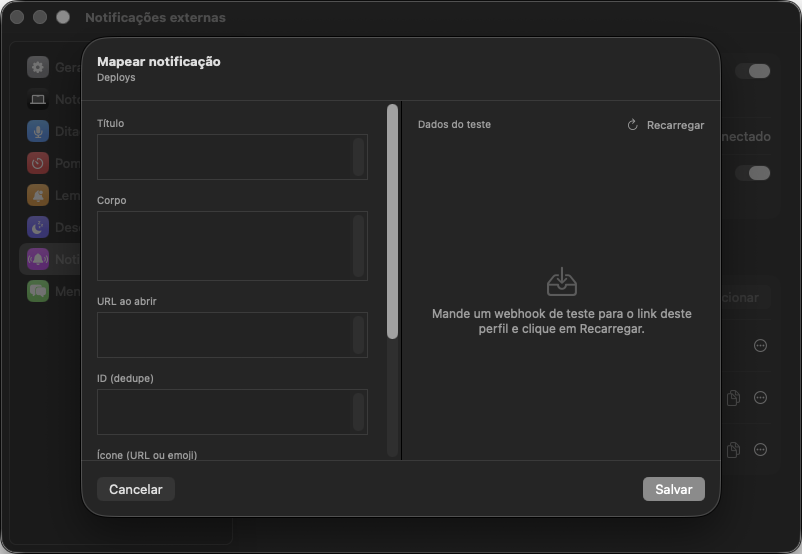
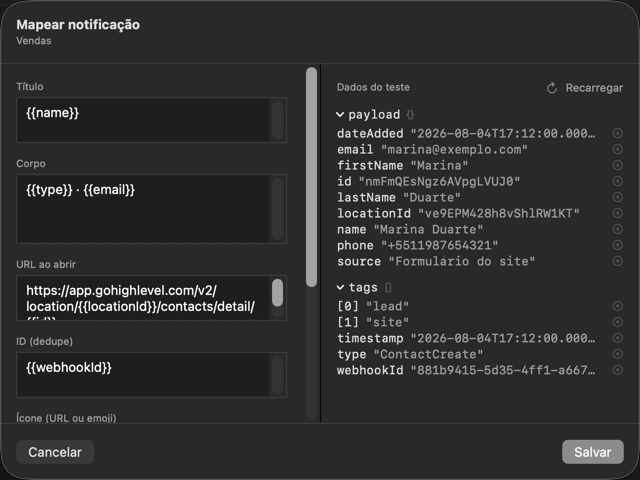
docs(webhooks): reescreve o doc pelo assistente, com presets e filtros
Fecha o ticket 021 (Fase 5). O doc de notificações externas passa a começar
pelo assistente como porta única — os cinco passos e o escape "Outro serviço
(sem preset)" — e ganha as seções Presets e Filtros no template. As imagens do
painel e do editor foram recapturadas e a do passo Serviço criada, com o fluxo
exercitado de ponta a ponta no app rodando (perfil novo, preset do GHL, POST
real, mapa salvo e card no notch).

Claude-Session: https://claude.ai/code/session_01RgiJzXMjPF5Q2VGHiHKQDy

diff --git a/docs/webhooks.md b/docs/webhooks.md
@@ -4,10 +4,6 @@
 
 *Ajustes → Notificações externas — lista de perfis.*
 
-![Editor de mapeamento de um perfil](images/mapping-editor.png)
-
-*Mapear um perfil — como o JSON recebido vira o card.*
-
 ## O que faz
 
 Cada "perfil" webhook tem um link próprio (`push.appzoi.com.br/w/<token>`):
@@ -19,11 +15,77 @@ com o relay usa um WebSocket sempre ativo, com reconexão automática.
 
 ## Como usar
 
-- Ligar/criar perfis: Ajustes → Notificações externas.
-- Copiar o link do perfil e configurar o serviço externo pra fazer POST nele.
-- "Mapear" um perfil abre o editor visual pra ligar campos do JSON recebido
-  (título, corpo, ícone, som) às partes do card.
-- Rotacionar ou excluir um perfil invalida o link antigo.
+Ligue **Receber notificações externas** e clique em **Adicionar perfil**. O
+assistente é a porta única — cinco passos, na ordem em que a configuração
+realmente acontece:
+
+1. **Nome** — como você chama esse perfil. Um por serviço costuma bastar.
+2. **Serviço** — de onde vêm as notificações. Escolher um preset traz a
+   instrução certa e semeia o mapa. Quem não está na lista escolhe
+   **Outro serviço (sem preset)** e monta o mapa depois do primeiro envio.
+3. **Link** — copie o link do perfil e cole no serviço externo.
+4. **Primeiro envio** — o assistente fica esperando o primeiro POST chegar
+   (dá pra fechar: o perfil continua esperando e o painel retoma daqui). Sem
+   esperar, **Colar JSON de exemplo** monta o mapa a partir de um payload que
+   você já tenha em mãos.
+5. **Mapa** — o editor, com a árvore do que chegou de um lado e os campos do
+   card do outro.
+
+![Passo Serviço do assistente](images/assistente-servico.png)
+
+*Passo 2 — o preset define instruções e sugestão de mapa.*
+
+Depois, na lista de perfis: **Mapear campos…** reabre o editor,
+**Gerar link novo…** invalida o link antigo e **Apagar perfil** remove tudo.
+
+### O editor de mapa
+
+![Editor de mapeamento de um perfil](images/mapping-editor.png)
+
+*Mapear um perfil — como o JSON recebido vira o card.*
+
+Clicar num valor da árvore insere o `{{caminho}}` dele no campo em foco. O
+que já chegou fica em **Dados do teste** (**Recarregar** busca o mais recente).
+Campos vazios ganham **sugestões automáticas** — do preset quando ele casa com
+o payload, senão por nome de chave — num banner que some ao primeiro toque.
+Campo já preenchido nunca é sobrescrito, e o ícone nunca é chutado.
+
+## Presets
+
+Um preset é a receita de um serviço conhecido: a instrução de onde colar o
+link, a ressalva do que costuma dar errado, um JSON de exemplo e a sugestão de
+mapa. Hoje vêm quatro no app:
+
+| Serviço | Caminho |
+|---|---|
+| GoHighLevel | App do Marketplace |
+| GoHighLevel | Ação Webhook num workflow |
+| ClickUp | Webhook de API |
+| ClickUp | Automação "Call webhook" |
+
+Um mesmo serviço aparece mais de uma vez porque o **caminho** muda o payload —
+o webhook de um workflow do GHL não tem o mesmo corpo do app do Marketplace. A
+ressalva de cada preset diz o que esperar (no GHL, por exemplo, quase todo
+campo é opcional e o corpo muda por evento).
+
+O preset é ponto de partida, não vínculo: o mapa sugerido é editável e
+**reaplicar um preset é manual** — trocar o serviço no assistente não reescreve
+um mapa que você já salvou.
+
+## Filtros no template
+
+Um `{{caminho}}` aceita um filtro: `{{caminho | filtro}}`. A lista é fechada,
+um filtro por token, sem argumentos e sem encadeamento. Filtro desconhecido ou
+inaplicável devolve o valor cru — falha suave, nunca erro na tela.
+
+| Filtro | Faz | Exemplo |
+|---|---|---|
+| `semHifens` | Tira todos os `-` | `{{webhookId \| semHifens}}` → `881b94155d354ff1…` |
+| `data` | Epoch em ms → `DD/MM/AAAA HH:MM` na hora local | `{{date_created \| data}}` → `04/08/2026 14:12` |
+| `quill` | Delta do Quill (ClickUp) → texto puro | `{{comment \| quill}}` → `Cliente pediu retorno` |
+
+O app e o relay aplicam os mesmos três filtros — a prévia do editor mostra o
+que o card vai mostrar.
 
 ## Quando o painel diz "Credenciais inacessíveis"
 

diff --git a/.wayfinder/tickets/021-fase-docs-release.md b/.wayfinder/tickets/021-fase-docs-release.md
@@ -2,7 +2,7 @@
 
 - map: ../map.md
 - label: wayfinder:task
-- status: in-progress
+- status: closed
 - assignee: claude
 - blocked-by: 016, 020
 
@@ -18,3 +18,29 @@
   corte `802x554+55+37`: recapturar `settings-webhooks.png` e
   `mapping-editor.png`, criar `assistente-servico.png`.
 - `./tools/check.sh` verde, depois `./tools/release.sh minor`.
+
+## Resolução
+
+- Item (a) já estava em pé desde a Fase 1: a prévia usa `WebhookTemplate.swift`,
+  os mesmos três filtros do relay, com gate `templatecheck`.
+- `docs/webhooks.md` reescrito em arquivo único: "Como usar" começa pelo
+  assistente (cinco passos, o escape "Outro serviço (sem preset)" nomeado no
+  passo Serviço), mais a subseção do editor de mapa (árvore, Recarregar,
+  sugestões automáticas), a seção **Presets** (tabela dos quatro caminhos, por
+  que o mesmo serviço repete, ressalva, reaplicar é manual) e a seção
+  **Filtros no template** (`semHifens`, `data`, `quill`, um exemplo cada,
+  falha suave).
+- Imagens à mão com a build Debug rodando: `settings-webhooks.png` e
+  `mapping-editor.png` recapturadas, `assistente-servico.png` criada. Desvio de
+  receita: `screencapture -l<id>` devolve a janela **reescalada** (o sheet de
+  640x480 saiu com a janela-mãe em volta, e as coordenadas de clique tiradas
+  dessa imagem erram o alvo). O que funcionou foi `screencapture -R x,y,w,h`
+  com os bounds de `CGWindowListCopyWindowInfo` e `sips -z` pra 1x. O editor e
+  o assistente ficam no tamanho do sheet (640x480), não em 802x554.
+- **Fluxo validado clicando** (pendência aberta desde a Fase 2): perfil criado
+  pelo assistente, preset GHL do Marketplace escolhido, POST real no link →
+  o passo Primeiro envio virou "Recebido" pelo polling, o editor semeou os
+  campos da receita, o mapa salvou e o POST seguinte chegou como card no notch
+  ("Marina Duarte / ContactCreate · marina@exemplo.com"). Os perfis de teste
+  foram apagados no relay e o toggle voltou a desligado.
+- `./tools/check.sh`: 34 checks ok.

diff --git a/.wayfinder/map.md b/.wayfinder/map.md
@@ -221,3 +221,14 @@ app e sem tentativa-e-erro.
 - **Entrega e segurança do transporte** (HMAC por perfil, fila no relay quando o
   Mac está offline, roteamento entre múltiplos Macs). Mesma razão: entrega, não
   configuração.
+- [Fase 5 — docs, imagens e release](tickets/021-fase-docs-release.md) — a prévia
+  já usava os três filtros desde a Fase 1; sobrou o doc e as imagens.
+  `docs/webhooks.md` reescrito com o assistente como porta única mais as seções
+  **Presets** e **Filtros no template**; `settings-webhooks.png` e
+  `mapping-editor.png` recapturadas e `assistente-servico.png` criada. O fluxo
+  foi enfim exercitado no app rodando — criar perfil, preset, POST real,
+  "Recebido", mapa salvo e card no notch —, o que fecha a pendência de validação
+  aberta na Fase 2. Desvio de receita de captura: `screencapture -l<id>` reescala
+  a janela (as coordenadas de clique tiradas dessa imagem erram o alvo); usar
+  `-R` com os bounds de `CGWindowListCopyWindowInfo`. 34 checks ok. Notion (011,
+  022) segue travado e fora deste release.

diff --git a/CLAUDE.md b/CLAUDE.md
@@ -127,7 +127,13 @@ mensagens permissoes`), tire o screenshot da janela real e salve em
 (as imagens usadas pelos docs de usuário ficam ali, não em `Snapshots/` —
 `Snapshots/` é gitignored e serve só de QA visual local). `screencapture -l<windowID>`
 captura a sombra própria do macOS (PNG com alpha) — corte pra
-`802x554+55+37` antes de salvar (bordas reais da janela, sem halo). Numa tela
+`802x554+55+37` antes de salvar (bordas reais da janela, sem halo).
+⚠ `-l` **reescala** a janela: num sheet o PNG sai com a janela-mãe em volta, e
+coordenada de clique tirada dessa imagem erra o alvo. Pra automatizar clique +
+captura use `screencapture -R x,y,w,h` com os bounds de
+`CGWindowListCopyWindowInfo` e `sips -z` pra 1x. Clique sintético: SwiftUI só
+responde com `CGWarpMouseCursorPosition` **mais** eventos `.mouseMoved` em
+passos pequenos antes do down/up. Numa tela
 Retina o PNG sai em @2x: o corte equivalente é
 `sips -c 1108 1604 --cropOffset 74 110` seguido de `sips -z 554 802`.
 

diff --git a/CHANGELOG.md b/CHANGELOG.md
@@ -45,6 +45,12 @@ Regras de bump em [VERSIONING.md](VERSIONING.md).
   árvore.
 
 ### Changed
+- **Doc de notificações externas reescrito**: `docs/webhooks.md` passa a começar
+  pelo assistente como porta única (os cinco passos e o escape "Outro serviço
+  (sem preset)"), com seções novas de Presets (o que é, por que o mesmo serviço
+  aparece por caminho, reaplicar é manual) e de Filtros no template (os três,
+  um exemplo cada, falha suave). Imagens do painel e do editor recapturadas e
+  uma do passo Serviço criada.
 - A linha do perfil de webhook mostra estado em vez de "Campos mapeados":
   "Esperando o primeiro envio" / "Sem mapa — último webhook há 3 min" /
   "Último webhook há 3 min". Clicar nela retoma a configuração.
